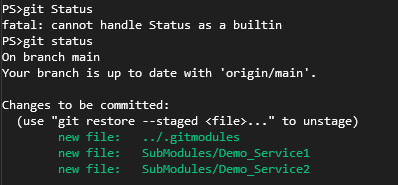
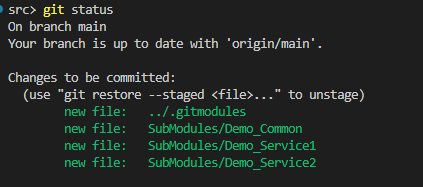
Update Readme

Changed region(s): [[0.0, 0.027, 0.9045, 0.9459], [0.0, 0.4865, 0.1206, 0.7027], [0.6332, 0.4595, 0.6633, 0.4865]]

diff --git a/README.md b/README.md
@@ -15,17 +15,18 @@ Change to 'src' folder under Repository folder.
 
 Run:
 ```
+git submodule add https://github.com/PJChamley/Demo_Common SubModules/Demo_Common
 git submodule add https://github.com/PJChamley/Demo_Service1 SubModules/Demo_Service1
 git submodule add https://github.com/PJChamley/Demo_Service2 SubModules/Demo_Service2
 ```
 
-This is the result I had running the above command:
+This is the result I had when adding the Sercice1 & Service2 repos as sub modules.
 
 ![image.png](/.readmemd/git.submodules/add.submodule.command.result.png)
 
 By default, submodules will add the subproject into a directory named the same as the repository, in this case "Demo_Common". But as you can see we have told the submodules to be create under a folder structure this should keep multiple submodles in the same location and thing should be a bit cleaner.
 
-If you run 'git status' at this point, you�ll notice a few things.
+If you run 'git status' at this point, you'll notice a few things.
 ```
 git status
 ```
@@ -33,11 +34,11 @@ git status
 
 
 
-First you should notice the new .gitmodules file. This is a configuration file that stores the mapping between the project�s URL and the local subdirectory you�ve pulled it into:
+First you should notice the new .gitmodules file. This is a configuration file that stores the mapping between the project's URL and the local subdirectory you've pulled it into:
 
 ![image.png](/.readmemd/git.submodules/.gitmodules.example.content.png)
 
-If you have multiple submodules, you�ll have multiple entries in this file. It�s important to note that this file is version-controlled with your other files, like your .gitignore file. It�s pushed and pulled with the rest of your project. This is how other people who clone this project know where to get the submodule projects from.
+If you have multiple submodules, you'll have multiple entries in this file. It's important to note that this file is version-controlled with your other files, like your .gitignore file. It's pushed and pulled with the rest of your project. This is how other people who clone this project know where to get the submodule projects from.
 
 
 
@@ -74,7 +75,6 @@ git submodule init
 
 # Remove Sub module
 
-
 ```
 # Remove the submodule entry from .git/config
 git submodule deinit -f path/to/submodule
@@ -85,4 +85,7 @@ rm -rf .git/modules/path/to/submodule
 # Remove the entry in .gitmodules and remove the submodule directory located at path/to/submodule
 git rm -f path/to/submodule
 
+
 ```
+
+Now Commit changes and push to remote.
